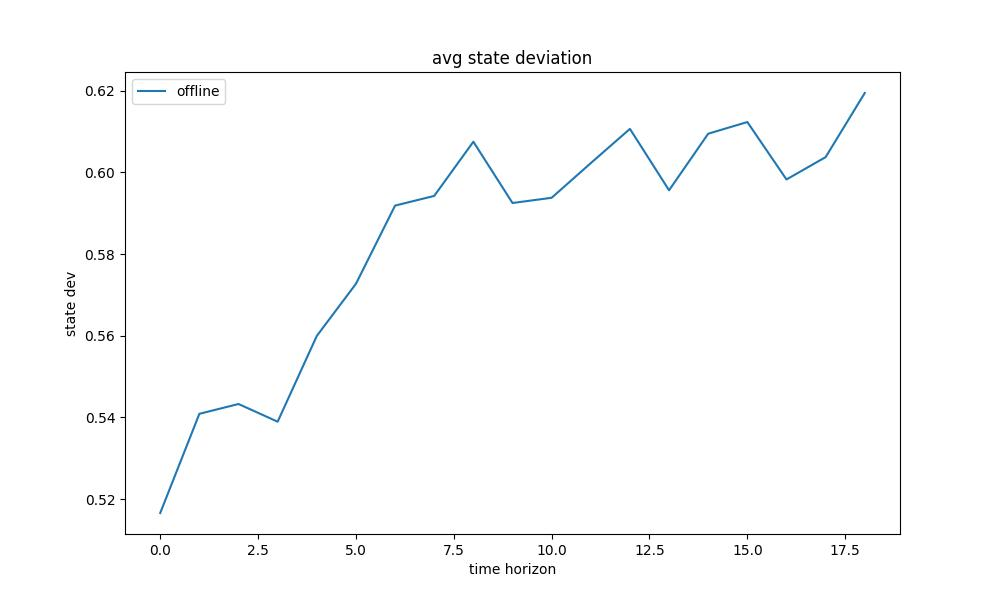
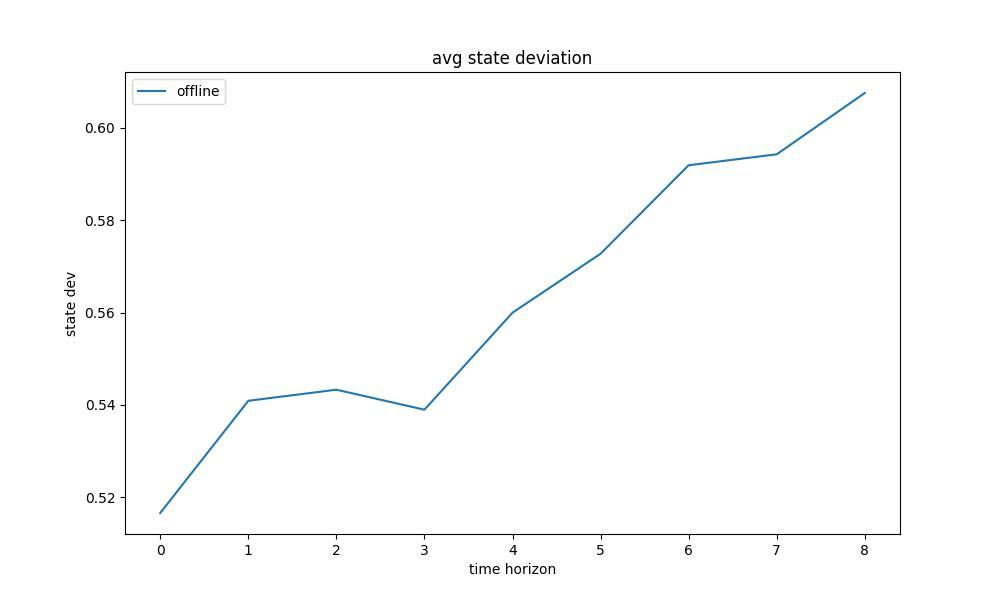
up

diff --git a/gp/mod_gp_ucb.py b/gp/mod_gp_ucb.py
@@ -1,0 +1,182 @@
+import numpy as np
+import matplotlib.pyplot as plt
+import math
+import os
+import GPy
+import matplotlib.patches as patches
+from scipy.linalg import block_diag
+from datagen import get_system
+
+# ===================== SAMPLING =====================
+
+def sample_u(C, b, gamma, n, nullscale=1.0):
+    m, d = C.shape
+    b = b.reshape(-1)
+
+    U, S, Vt = np.linalg.svd(C, full_matrices=True)
+    rank = np.linalg.matrix_rank(C)
+    N = Vt[rank:].T
+
+    C_pinv = np.linalg.pinv(C)
+    u_samples = []
+
+    while len(u_samples) < n:
+        z = np.random.randn(m)
+        z = z / np.linalg.norm(z)
+        r = np.random.rand() ** (1.0 / m)
+        y = np.sqrt(gamma) * r * z
+
+        u_p = C_pinv @ (y - b)
+
+        if N.size > 0:
+            w = nullscale * np.random.randn(N.shape[1])
+            u = u_p + N @ w
+        else:
+            u = u_p
+
+        if (C @ u + b).T @ (C @ u + b) <= gamma + 1e-8:
+            u_samples.append(u)
+
+    return np.array(u_samples)
+
+# ===================== GP-UCB =====================
+
+class gp_ucb:
+    def __init__(self, domain):
+        self.X = domain
+    
+    def initialize(self, k):
+        pr_mean = np.zeros((len(self.X), 1))
+        pr_cov = k.K(self.X, self.X)
+        return pr_mean, pr_cov
+    
+    def sample(self, mean, cov):
+        beta = 0.5
+        var = np.diag(cov).reshape(-1, 1)
+        score = -mean + np.sqrt(beta) * var
+        i = np.random.choice(np.where(score == score.max())[0])
+        return self.X[i], i
+
+    def cost(self, Q, x, T):
+        Q_tilde = block_diag(*([Q] * T))
+        x = x.reshape(-1, 1)
+        c = x.T @ Q_tilde @ x
+        return (c + np.random.normal()).flatten()
+
+    def updation(self, Y_obs, X_obs):
+        mean = k.K(self.X, X_obs) @ np.linalg.inv(
+            k.K(X_obs, X_obs) + np.eye(len(X_obs))
+        ) @ Y_obs
+        cov = k.K(self.X, self.X) - k.K(self.X, X_obs) @ np.linalg.inv(
+            k.K(X_obs, X_obs) + np.eye(len(X_obs))
+        ) @ k.K(X_obs, self.X)
+        return mean, cov
+
+# ===================== NEW: TRAJECTORY SIMULATION =====================
+
+def simulate_full_trajectory(A, B, x0, u_seq, sigma_w):
+    T = u_seq.shape[0]
+    n = x0.shape[0]
+
+    x = np.zeros((T + 1, n))
+    x[0] = x0
+
+    for t in range(T):
+        w = np.random.multivariate_normal(np.zeros(n), sigma_w)
+        x[t+1] = A @ x[t] + B @ u_seq[t] + w
+
+    return x
+
+# ===================== MAIN =====================
+
+n, m = 2, 2
+x_0 = np.array([0.0, 0.0])
+T_list = range(1, 20)
+Q = np.diag([2.0, 3.0])
+epsilon = 0.85
+delta = 0.9
+j = 1000
+
+dev, norm, ratios = [], [], []
+
+for T in T_list:
+
+    A, B, CT = get_system('stable', n, m, T, seed=0)
+
+    u = np.random.randn(m*T, 1)
+    x_f = (np.linalg.matrix_power(A, T) @ x_0.reshape(-1,1) + CT @ u).flatten()
+
+    N_T = np.eye(n)
+    for i in range(1, T):
+        N_T = np.hstack((N_T, np.linalg.matrix_power(A, i)))
+
+    sigma_w = np.eye(n*T) * 0.1
+    sigma_z = N_T @ sigma_w @ N_T.T
+    traceSigma = np.trace(sigma_z)
+
+    b = np.linalg.matrix_power(A, T) @ x_0 - x_f
+    alpha = epsilon**2 + traceSigma/delta - 2*epsilon*np.sqrt(traceSigma/delta)
+
+    k = GPy.kern.Poly(m*T)
+    X = sample_u(CT, b, alpha, j)
+
+    algo = gp_ucb(X)
+    mean, cov = algo.initialize(k)
+
+    X_obs, Y_obs, indices = [], [], []
+
+    for _ in range(700):
+        x, i = algo.sample(mean, cov)
+        X_obs.append(x)
+        Y_obs.append(algo.cost(Q, x, T))
+        indices.append(i)
+        mean, cov = algo.updation(np.array(Y_obs), np.array(X_obs))
+
+    index = indices[-1]
+    u_star = X.reshape(j, T, m)[index]
+
+    # ===================== MONTE CARLO TRAJECTORIES =====================
+
+    sim = 3000
+    trajectories = []
+
+    for _ in range(sim):
+        traj = simulate_full_trajectory(
+            A, B, x_0, u_star, sigma_w=np.eye(n)*0.1
+        )
+        trajectories.append(traj)
+
+    trajectories = np.array(trajectories)  # (sim, T+1, n)
+
+    # ===================== PLOT ALL INTERMEDIATE STATES =====================
+
+    plt.figure(figsize=(7, 7))
+
+    for t in range(T+1):
+        plt.scatter(
+            trajectories[:, t, 0],
+            trajectories[:, t, 1],
+            s=5,
+            alpha=0.3
+        )
+
+    plt.scatter(x_f[0], x_f[1], color='red', label='target')
+
+    circle = patches.Circle(
+        (x_f[0], x_f[1]),
+        epsilon,
+        fill=False,
+        linestyle='--',
+        color='k',
+        label='terminal ε-ball'
+    )
+    plt.gca().add_patch(circle)
+
+    plt.axis('equal')
+    plt.grid(True)
+    plt.xlabel('x1')
+    plt.ylabel('x2')
+    plt.title(f'All intermediate states (T={T})')
+    plt.legend()
+    plt.savefig(f'all_states_T{T}.jpeg')
+    plt.close()

diff --git a/gp/gp_ucb.py b/gp/gp_ucb.py
@@ -117,7 +117,7 @@ class gp_ucb:
 n,m = 2,2
 x_0 = np.array([0.0, 0.0])
 
-T_list  = range(1, 20)
+T_list  = range(1, 10)
 sigma_0 = np.eye(n) *0.1
 Q = np.diag([2.0, 3.0])
 name = 'stable'
@@ -158,48 +158,6 @@ for T in T_list:
    
    
     X =  sample_u(CT, b, alpha, j) # set of inputs from constraint (only change)
-
-    # ======== PLOTTING FEASIBLE CONTROLS (NO CODE STRUCTURE CHANGED) ========
-
-# X has shape (j, m*T)
-# reshape safely
- # ======== SINGLE-PLOT FEASIBLE CONTROLS FOR ALL TIME STEPS ========
-
-    X_seq = X.reshape(j, T, m)
-
-    plt.figure(figsize=(7, 7))
-
-    colors = plt.cm.viridis(np.linspace(0, 1, T))
-
-    for t_step in range(T):
-        if t_step == 0 or t_step == T-1:
-            plt.scatter(
-                X_seq[:, t_step, 0],
-                X_seq[:, t_step, 1],
-                s=8,
-                alpha=0.35,
-                color=colors[t_step],
-                label=f't={t_step}' if T <= 6 else None
-            )
-
-    plt.axis('equal')
-    plt.grid(True)
-    plt.xlabel(r'$u^{(1)}$')
-    plt.ylabel(r'$u^{(2)}$')
-    plt.title(f'Feasible control inputs across all time steps (T={T})')
-
-    if T <= 6:
-        plt.legend()
-
-    plt.savefig(f'feasible_inputs_all_t_T{T}.jpeg')
-    plt.close()
-
-# ==================================================================
-
-
-
-    
-    
 
     algo = gp_ucb(X)
     X_obs = []
